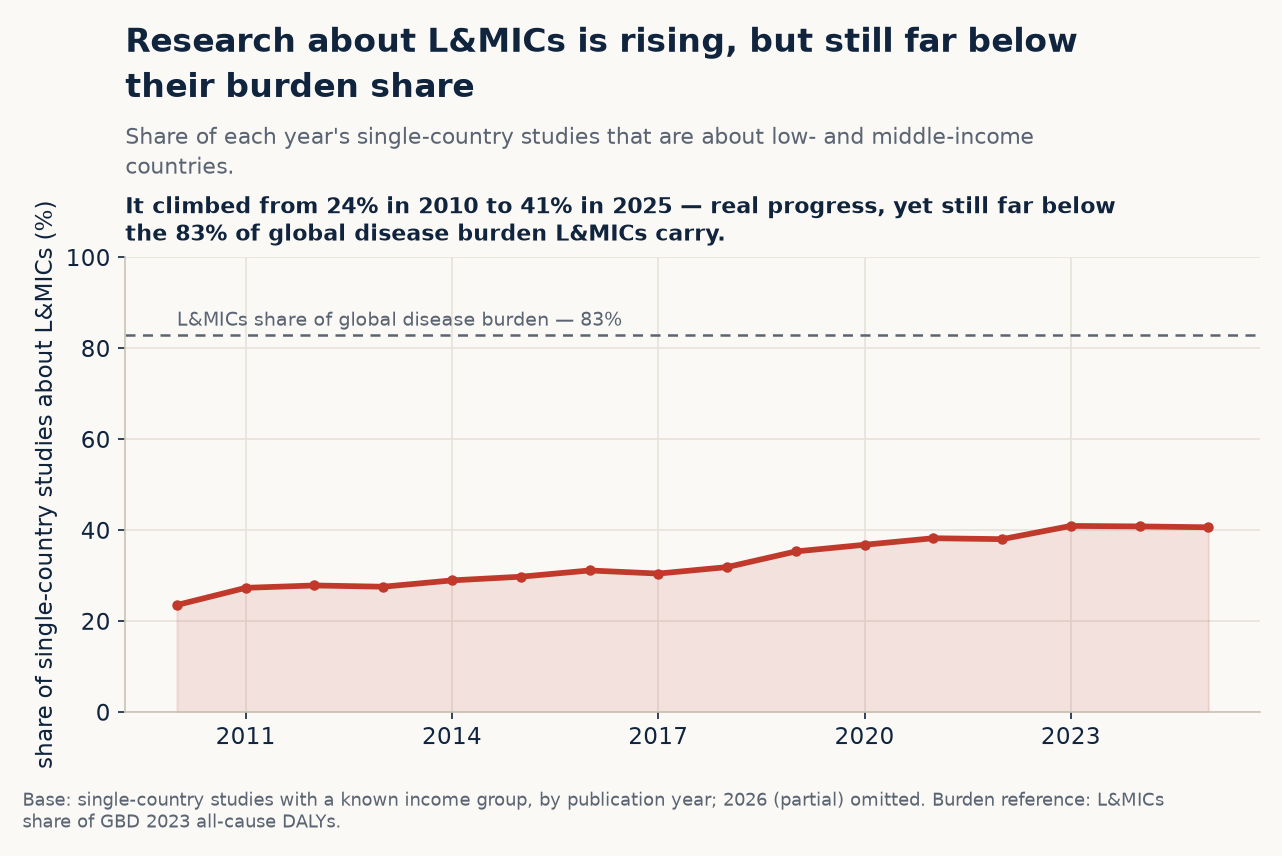
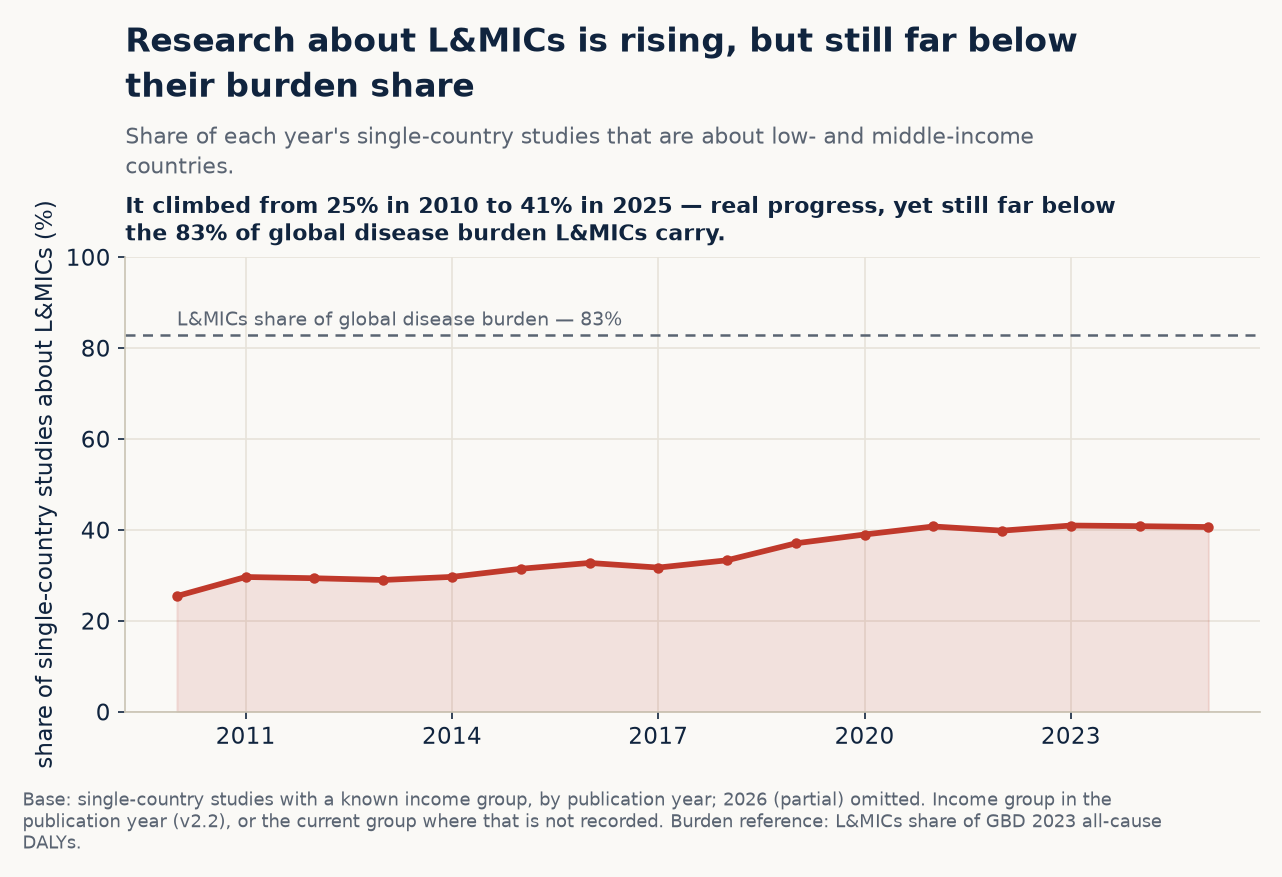
Income figures in publication-year groups; quick mode for figure fixes
"Study-country pairs by income group" and "L&MICs research share over
time" now use each study country's World Bank income group in the
publication year (geo.json "i"). Methods tab and DATA_GAPS_v2_2.md state
the rule: study counts use publication-year groups, country comparisons
the current (FY2027) group. build_figures_v2_2.py gains --only, which
writes just the named figures and their gallery entries (~2 min instead
of ~15); output matches the full build.

diff --git a/docs/index.html b/docs/index.html
@@ -456,10 +456,9 @@
                   <td><a href="https://datahelpdesk.worldbank.org/knowledgebase/articles/906519-world-bank-country-and-lending-groups" target="_blank" rel="noopener">World Bank country and lending groups</a>,
                       <a href="https://unstats.un.org/unsd/methodology/m49/" target="_blank" rel="noopener">UN M49 regions</a> and
                       <a href="https://data.worldbank.org/indicator/SP.POP.TOTL" target="_blank" rel="noopener">World Bank population data</a>.
-                      Some countries changed World Bank income group during 2010–2026. The Explorer's income filter and
-                      income breakdowns use each study country's group in the study's publication year, as do the
-                      fragile and conflict-affected settings figures (which also use each year's FCAS list); country
-                      profiles, maps and the other Thematic analysis figures use the current (FY2027) group.</td></tr>
+                      Income groups follow the World Bank classification. Analyses that count studies use each study
+                      country's group in the study's publication year (or the current group where that is not
+                      recorded); comparisons between countries use the current (FY2027) classification.</td></tr>
               <tr><td>Disease burden and health-financing context</td>
                   <td><a href="https://www.healthdata.org/research-analysis/gbd" target="_blank" rel="noopener">IHME Global Burden of Disease 2023</a> and
                       <a href="https://www.healthdata.org/data-tools-practices/interactive-visuals/financing-global-health" target="_blank" rel="noopener">IHME Financing Global Health</a>.</td></tr>

diff --git a/docs/dex_hff/build_figures_v2_2.py b/docs/dex_hff/build_figures_v2_2.py
@@ -37,6 +37,44 @@ ROOT = Path(__file__).resolve().parent.parent  # docs/
 DATA = ROOT / "data"
 FIGS = ROOT / "figures"
 DEX = ROOT / "dex_hff"
+
+# ---------------------------------------------------------------------------
+# Quick mode: python build_figures_v2_2.py --only fig_a.png,fig_b.png
+# Every figure is still computed (later figures reuse earlier results), but only the named
+# PNGs are written and only their gallery entries in content.json are updated. Plotly maps
+# that were not asked for get a blank placeholder instead of a Kaleido/Chrome render, which
+# is most of the full run's time. Not for the figures kept at v5 (keep_v5_metadata_figures_v2_2.py).
+# ---------------------------------------------------------------------------
+import sys
+
+ONLY = None
+if "--only" in sys.argv:
+    ONLY = {n.strip() for n in sys.argv[sys.argv.index("--only") + 1].split(",") if n.strip()}
+    print(f"Quick mode: writing only {sorted(ONLY)}")
+    from matplotlib.figure import Figure as _Figure
+    _full_savefig = _Figure.savefig
+
+    def _savefig_only(self, fname, *args, **kwargs):
+        name = Path(str(fname)).name
+        if name in ONLY or name.startswith("_tmp_"):
+            return _full_savefig(self, fname, *args, **kwargs)
+
+    _Figure.savefig = _savefig_only
+    if HAVE_PLOTLY:
+        import plotly.basedatatypes as _pbd
+        _full_write_image = _pbd.BaseFigure.write_image
+        # temporary Plotly renders -> the figure they end up in
+        _TMP_TARGET = {"_tmp_bivariate_map.png": "fig_map_bivariate.png",
+                       "_tmp_map_disease.png": "fig_map_disease.png"}
+
+        def _write_image_only(self, file, *args, **kwargs):
+            name = Path(str(file)).name
+            target = _TMP_TARGET.get(name, name[len("_tmp_"):] if name.startswith("_tmp_") else name)
+            if target in ONLY:
+                return _full_write_image(self, file, *args, **kwargs)
+            plt.imsave(str(file), np.ones((40, 80, 3)))  # blank stand-in; the figure is not saved
+
+        _pbd.BaseFigure.write_image = _write_image_only
 # v2.2 copy of build_figures_v5.py: reads the HFF dataset v2.2 (via make_v2_2_csv.py).
 # Run after build_data_v2_2.py. Adds fig_function_second_opinion_v2_2.png, the
 # with/without second-opinion check the v2.2 README asks for on function results.
@@ -1443,9 +1481,11 @@ hbar(col_counts("geo_scope"), "Most research names a single country",
 # ---------------------------------------------------------------------------
 # 10. Studies by income group
 # ---------------------------------------------------------------------------
+# Income group of each study-country pair in the publication year (geo.json "i", built by
+# build_data_v2_2.py from v2.2's income_level_bundled; the current group where that is missing).
+PAIR_INCOME = [LV["income"][k] if k >= 0 else None for k in geo_j["i"]]
 income_counts = Counter()
-for s, c in zip(geo_j["s"], geo_j["c"]):
-    inc = countries[c]["income"]
+for inc in PAIR_INCOME:
     if inc:
         income_counts[inc] += 1
 inc_order = dict_json["meta"]["inc_lv"]
@@ -1470,14 +1510,16 @@ for bar, v in zip(bars, inc_values):
 ax.margins(x=0.04)
 ax.set_ylim(0, max(inc_values) * 1.18)
 set_headline(ax, f"{top_income} settings carry the largest share of study-country pairs",
-             "Each study counts once for every country it examines, grouped by World Bank income level.",
+             "Each study counts once for every country it examines, grouped by the country's World Bank income "
+             "level in the study's publication year.",
              f"{top_income} accounts for {top_income_n:,} pairs, ahead of "
              f"{second_income}'s {second_income_n:,}.", "fig_income_bar.png")
 ax.set_ylabel("study-country pairs")
 ax.yaxis.set_major_formatter(mticker.StrMethodFormatter("{x:,.0f}"))
 clean_axes(ax)
 ax.grid(axis="y", color="#e7e3da", linewidth=0.8, zorder=0)
-set_footnote(fig, f"Base: {inc_total:,} pairs; countries without an income group are excluded.")
+set_footnote(fig, f"Base: {inc_total:,} pairs; countries without an income group are excluded. Income group in the "
+                   f"publication year (v2.2), or the current group where that is not recorded.")
 fig.tight_layout()
 fig.savefig(FIGS / "fig_income_bar.png", dpi=150, bbox_inches="tight")
 plt.close(fig)
@@ -1681,11 +1723,13 @@ s_to_cs = defaultdict(set)
 for s, c in zip(geo_j["s"], geo_j["c"]):
     s_to_cs[s].add(c)
 income_of_c = {i: r["income"] for i, r in enumerate(countries)}
+# income group in the publication year, per study-country pair (see PAIR_INCOME above)
+pub_income_of_s = {s: inc for s, inc in zip(geo_j["s"], PAIR_INCOME)}
 by_year_tot_eq, by_year_lmic_eq = Counter(), Counter()
 for s, cs in s_to_cs.items():
     if studies["geo_scope"][s] != single_code or len(cs) != 1:
         continue
-    inc = income_of_c.get(next(iter(cs)))
+    inc = pub_income_of_s.get(s)
     if inc is None:
         continue
     y = studies["year"][s]
@@ -1713,7 +1757,8 @@ ax.xaxis.set_major_locator(mticker.MaxNLocator(integer=True, nbins=8))
 clean_axes(ax)
 ax.grid(axis="y", color="#e7e3da", linewidth=0.8, zorder=0)
 set_footnote(fig, f"Base: single-country studies with a known income group, by publication year; "
-                   f"{yrs_eq[-1] + 1} (partial) omitted. Burden reference: L&MICs share of GBD 2023 all-cause DALYs.")
+                   f"{yrs_eq[-1] + 1} (partial) omitted. Income group in the publication year (v2.2), or the current "
+                   f"group where that is not recorded. Burden reference: L&MICs share of GBD 2023 all-cause DALYs.")
 fig.tight_layout()
 fig.savefig(FIGS / "fig_equity_time.png", dpi=150, bbox_inches="tight")
 plt.close(fig)
@@ -5705,6 +5750,20 @@ gallery = [
 ]
 
 gallery = [sec for sec in gallery if sec is not None]
-content["gallery"] = gallery
-(DATA / "content.json").write_text(json.dumps(content, allow_nan=False, ensure_ascii=False), encoding="utf-8")
-print(f"\nWrote gallery ({sum(len(s['figs']) for s in gallery)} figures across {len(gallery)} sections) into content.json")
+if ONLY:
+    # quick mode: keep the published gallery, refresh only the named figures' entries
+    new_entry = {f["file"]: f for sec in gallery for f in sec["figs"]}
+    content = json.loads((DATA / "content.json").read_text(encoding="utf-8"))
+    updated = set()
+    for sec in content["gallery"]:
+        for i, f in enumerate(sec["figs"]):
+            if f["file"] in ONLY and f["file"] in new_entry:
+                sec["figs"][i] = new_entry[f["file"]]
+                updated.add(f["file"])
+    (DATA / "content.json").write_text(json.dumps(content, allow_nan=False, ensure_ascii=False), encoding="utf-8")
+    print(f"\nQuick mode: updated gallery entries for {sorted(updated)}; "
+          f"not in the gallery (image only): {sorted(ONLY - updated)}")
+else:
+    content["gallery"] = gallery
+    (DATA / "content.json").write_text(json.dumps(content, allow_nan=False, ensure_ascii=False), encoding="utf-8")
+    print(f"\nWrote gallery ({sum(len(s['figs']) for s in gallery)} figures across {len(gallery)} sections) into content.json")

diff --git a/DATA_GAPS_v2_2.md b/DATA_GAPS_v2_2.md
@@ -104,23 +104,27 @@ any study falls outside 2010-2026.
 **For the dataset owners:** please take v2.2.1 (or the same change) into the master dataset, so
 the dataset's headline count and the map agree at 53,779.
 
-## 6. Income groups: publication year in the Explorer, current elsewhere
+## 6. Income groups: publication year for study counts, current for country comparisons
 
-Income groups are the World Bank's. Some countries changed group during 2010-2026 (56 of the
-countries in the map; about 5% of single-country studies would be grouped differently).
+Income groups follow the World Bank classification. **Analyses that count studies use each study
+country's group in the study's publication year (or the current group where that is not
+recorded); comparisons between countries use the current (FY2027) classification.** Some
+countries changed group during 2010-2026 (56 of the countries in the map; about 5% of
+single-country studies would be grouped differently).
 
-- **Explorer income filter and income breakdowns:** each study-country pair uses the group in
-  the study's publication year, from v2.2's `income_level_bundled` (stored as `i` in
-  `docs/data/geo.json`, built by `build_data_v2_2.py`). That field lists the distinct groups of
-  the countries a study names, not one per country, so where it is empty or lists several
-  groups, the country's current group is used instead (5,243 of 48,002 pairs).
-- **Fragile & conflict-affected settings figures:** publication year too, as in v5: each year's
-  World Bank FCAS list and income group (`fcas` and `income_level_bundled`, read by
-  `build_fcas_outcomes_v2_2.py`).
-- **Country profiles, peer comparisons, maps and the other Thematic analysis figures:** the
-  current (FY2027) group, one per country. The Methods tab says so.
-- **Open:** moving the other income-based figures to publication-year groups (for example the
-  income bar, the L&MICs share over time and the burden-by-income figures) is not done yet.
+- **Publication year:** the Explorer's income filter and income breakdowns; "Study-country pairs
+  by income group"; "L&MICs research share over time"; the three Fragile & conflict-affected
+  settings figures (which also use each year's FCAS list).
+- **Current (FY2027):** country profiles and peer comparisons, maps and country tables, and the
+  country-level figures (research vs. burden, the scorecards, research vs. spending, aid vs.
+  evidence by region), where each country appears once.
+- **Source:** v2.2's `income_level_bundled`, stored per study-country pair as `i` in
+  `docs/data/geo.json` by `build_data_v2_2.py` (and read directly by
+  `build_fcas_outcomes_v2_2.py`). It lists the distinct groups of the countries a study names,
+  not one per country, so where it is empty or lists several groups the country's current group
+  is used (5,243 of 48,002 pairs).
+- **Still open:** the figures kept at v5 (forest plot, topic map by income, disease transition,
+  disease atlas) use v5's grouping until they are rebuilt from v2.2 metadata (item 1).
 
 ## How to rebuild
 
@@ -137,6 +141,16 @@ python dex_hff/build_figures_v2_2.py             # gallery figures (about 15 min
 python dex_hff/build_fcas_outcomes_v2_2.py       # FCAS and outcome figures
 python dex_hff/keep_v5_metadata_figures_v2_2.py  # keeps the metadata figures at v5 (item 1)
 ```
+
+To change only a few figures, use quick mode (about 2 minutes instead of 15). It writes only the
+named images and updates only their gallery entries in `content.json`:
+
+```bash
+python dex_hff/build_figures_v2_2.py --only fig_income_bar.png,fig_equity_time.png
+```
+
+Quick mode is for figures made by `build_figures_v2_2.py`, not for the figures kept at v5 (item 1).
+After `build_data_v2_2.py` changes data that many figures use, run the full build instead.
 
 `make_country_additions_v2_2.py` fetches population and spending online and only needs rerunning
 if the country list changes. The raw v2.2 files live in `docs/dex_hff/v2_2/`, which is
